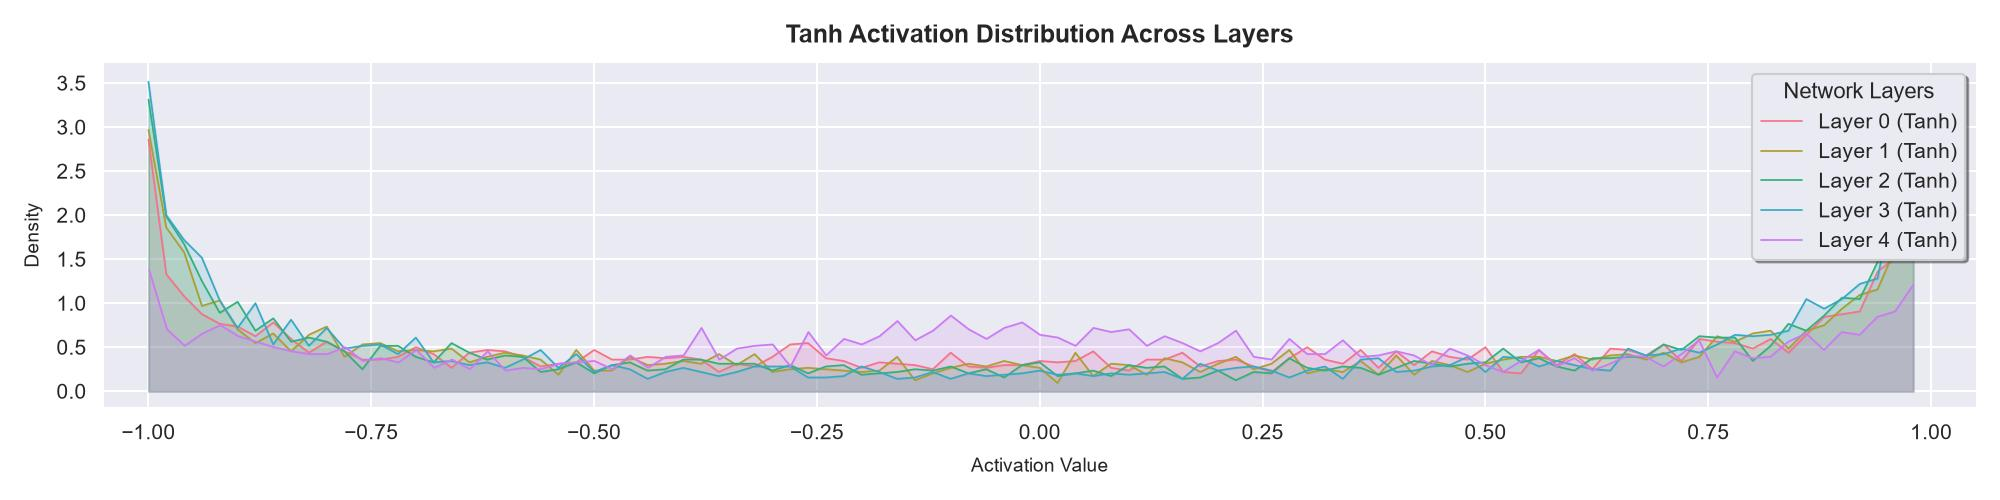
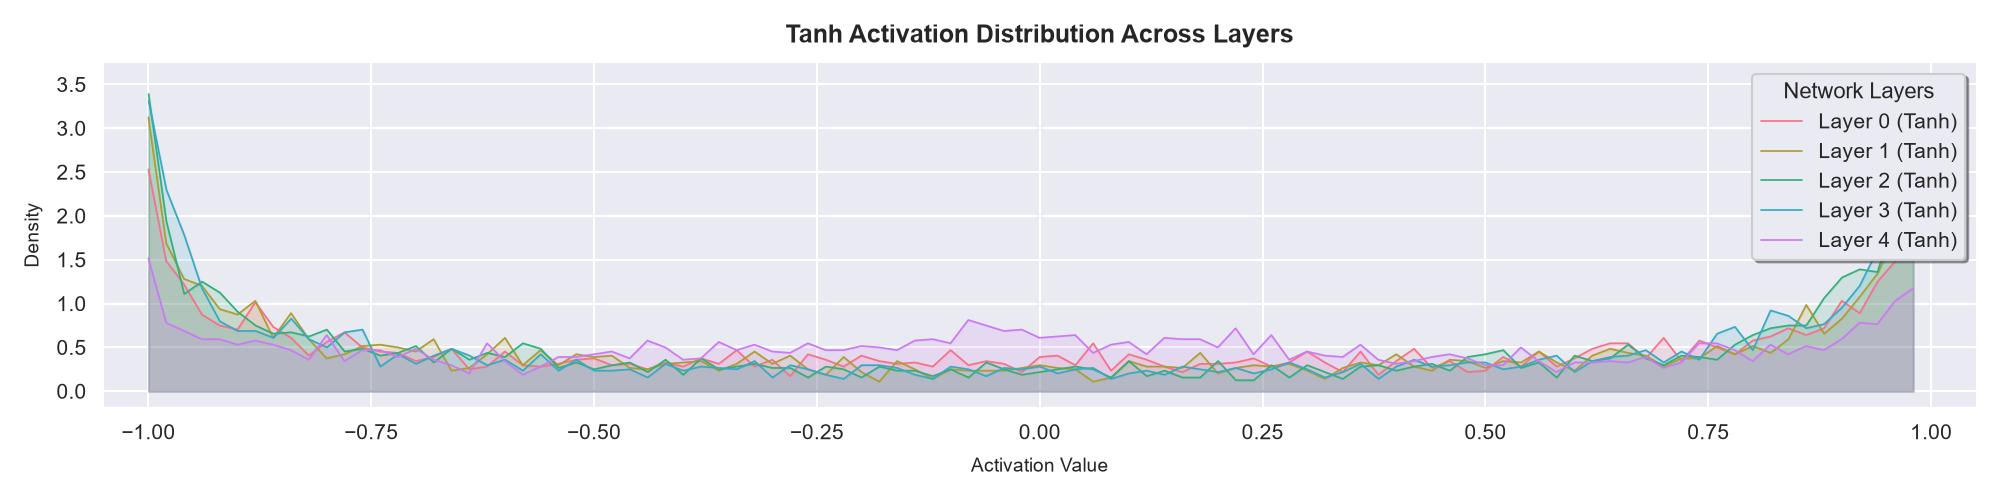
Implement WaveNet character language mode

Changed region(s): [[0.031, 0.24, 0.961, 0.78], [0.031, 0.15, 0.062, 0.18]]

diff --git a/Wavenet.py b/Wavenet.py
@@ -1,0 +1,151 @@
+import random
+
+from Bigrams.utils.get_dataset  import get_dataset
+from Bigrams.utils.make_dataset import build_dataset
+from nn.batch_norm_1d           import BatchNorm1d
+from nn.Linear                  import Linear
+from nn.TanH                    import Tanh
+from nn.embedding               import Embedding
+from nn.sequential              import Sequential
+from nn.flatten_consecutive     import FlattenConsecutive
+
+import torch
+import matplotlib.pyplot   as plt
+import seaborn             as sns
+import torch.nn.functional as F
+
+torch.manual_seed(42)
+random.seed(42)
+
+print(">> Reading dataset.")
+names = get_dataset()
+print(">> Dataset read successfully.")
+
+print(">> Generating vocabulary.")
+vocabulary = ['.'] +  list(sorted(set(list(''.join(names)))))
+print(f">> Vocabulary generated. Unique characters available in dataset is: {len(vocabulary)}.")
+
+_CONTEXT_WINDOW      = 8
+_VOCABULARY_SIZE     = len(vocabulary)
+_EMBEDDING_DIMENSION = 24
+_HIDDEN_NEURONS      = 128
+_MINI_BATCH_SIZE     = 32
+_ITERATIONS          = 200000
+
+char_lookup_table: dict[str, int] = {}
+rev_lookup_table : dict[int, str] = {}
+
+print(">> Generating lookup tables.")
+for i, ch in enumerate(vocabulary):
+    char_lookup_table[ch] = i
+    rev_lookup_table[i]   = ch
+print(">> Lookup tables generated.")
+
+random.shuffle(names)
+n1: int = int(0.8 * len(names))
+n2: int = int(0.9 * len(names))
+
+X_train, Y_train = build_dataset(names[  :n1], _CONTEXT_WINDOW, char_lookup_table)
+X_val  , Y_val   = build_dataset(names[n1:n2], _CONTEXT_WINDOW, char_lookup_table)
+X_test , Y_test  = build_dataset(names[n2:  ], _CONTEXT_WINDOW, char_lookup_table)
+
+
+model = Sequential([
+    Embedding(_VOCABULARY_SIZE , _EMBEDDING_DIMENSION),
+    FlattenConsecutive(2), Linear(_EMBEDDING_DIMENSION * 2, _HIDDEN_NEURONS, bias=False), BatchNorm1d(_HIDDEN_NEURONS), Tanh(),
+    FlattenConsecutive(2), Linear(_HIDDEN_NEURONS * 2     , _HIDDEN_NEURONS, bias=False), BatchNorm1d(_HIDDEN_NEURONS), Tanh(),
+    FlattenConsecutive(2), Linear(_HIDDEN_NEURONS * 2     , _HIDDEN_NEURONS, bias=False), BatchNorm1d(_HIDDEN_NEURONS), Tanh(),
+    Linear(_HIDDEN_NEURONS , _VOCABULARY_SIZE)
+])
+
+with torch.no_grad():
+  model._layers[-1]._weights *= 0.1
+
+parameters = model.parameters()
+
+print(f">> Model initialized with {sum(p.nelement() for p in parameters)} parameters.")
+for p in parameters:
+  p.requires_grad = True
+
+losses = []
+
+print(f">> Starting training...")
+for i in range(_ITERATIONS):
+    ix = torch.randint(0, X_train.shape[0], (_MINI_BATCH_SIZE, ))
+
+    X_batch, Y_batch = X_train[ix], Y_train[ix]
+    logits = model(X_batch)
+
+    loss = F.cross_entropy(logits, Y_batch)
+
+    for p in parameters:
+        p.grad = None
+
+    loss.backward()
+
+    lr = 0.1 if i < 100000 else 0.01
+
+    for p in parameters:
+        p.data += -lr * p.grad
+
+    if i % 10000 == 0:
+        print(f">>> Training loss after {i} iterations is {loss.item():.4f}")
+
+    losses.append(loss.item())
+print(f">> Training completed.")
+for layer in model._layers:
+    print(f"{layer.__class__.__name__} : {tuple(layer.out.shape)}")
+
+for layer in model._layers:
+    if isinstance(layer, BatchNorm1d):
+        layer.training = False
+
+@torch.no_grad()
+def split_loss(split):
+  x,y = {
+    'train': (X_train, Y_train),
+    'val'  : (X_val, Y_val),
+    'test' : (X_test, Y_test),
+  }[split]
+  logits = model(x)
+  loss   = F.cross_entropy(logits, y)
+  print(f"{split} set loss is: {loss.item():.7f}")
+
+split_loss('train')
+split_loss('val')
+split_loss('test')
+
+plt.figure(figsize=(18, 5))
+
+with torch.no_grad():
+    loss_tensor = torch.tensor(losses).view(-1, 1000).mean(dim=1)
+    y_vals      = loss_tensor.detach().cpu().numpy()
+    x_vals      = range(len(y_vals))
+
+    color = "#B2BD7E"
+    sns.lineplot(x=x_vals, y=y_vals, linewidth=3, color=color, label="Training Loss (Rolling Mean)")
+    plt.fill_between(x_vals, y_vals, alpha=0.12, color=color)
+    plt.title('Model Convergence: Training Loss Progress', fontsize=18, fontweight='bold', pad=15)
+    plt.xlabel('Training Epoch / Iteration Chunk (x1000 Steps)', fontsize=13, labelpad=10)
+    plt.ylabel('Mean Loss', fontsize=13, labelpad=10)
+    plt.ylim(y_vals.min() * 0.9, y_vals.max() * 1.05)
+    plt.xlim(0, len(y_vals) - 1)
+    plt.legend(frameon=True, shadow=True, loc='upper right', fontsize=11)
+    sns.despine(left=True, bottom=True)
+    plt.tight_layout()
+    plt.savefig("model_convergence.jpeg")
+
+for _ in range(20):
+
+    out = []
+    context = [0] * _CONTEXT_WINDOW
+    while True:
+        logits  = model(torch.tensor([context]))
+        probs   = F.softmax(logits, dim=1)
+        ix      = torch.multinomial(probs, num_samples=1).item()
+        context = context[1:] + [ix]
+        out.append(ix)
+        if ix == 0:
+            break
+
+    print(''.join(rev_lookup_table[i] for i in out))

diff --git a/nn/batch_norm_1d.py b/nn/batch_norm_1d.py
@@ -13,8 +13,12 @@ class BatchNorm1d:
 
     def __call__(self, x):
         if self.training:
-            xmean = x.mean(0, keepdim=True)
-            xvar  = x.var(0, keepdim=True)
+            if x.ndim == 2:
+                dim = 0
+            elif x.ndim == 3:
+                dim = (0, 1)
+            xmean = x.mean(dim, keepdim=True)
+            xvar  = x.var(dim, keepdim=True)
         else:
             xmean = self._running_mean
             xvar  = self._running_var

diff --git a/nn/flatten_consecutive.py b/nn/flatten_consecutive.py
@@ -1,0 +1,17 @@
+import torch
+
+class FlattenConsecutive:
+    def __init__(self, n):
+        self.n = n
+
+    def __call__(self, x):
+        B, T, C = x.shape
+        x       = x.view(B, T // self.n, C * self.n)
+        if x.shape[1] == 1:
+            x = x.squeeze(1)
+        self.out = x
+
+        return self.out
+
+    def parameters(self):
+        return []

diff --git a/nn/sequential.py b/nn/sequential.py
@@ -1,0 +1,14 @@
+import torch
+
+class Sequential:
+    def __init__(self, layers):
+        self._layers = layers
+
+    def __call__(self, x):
+        for layer in self._layers:
+            x = layer(x)
+        self.out = x
+        return self.out
+
+    def parameters(self):
+        return [p for layer in self._layers for p in layer.parameters()]

diff --git a/nn/embedding.py b/nn/embedding.py
@@ -1,0 +1,12 @@
+import torch
+
+class Embedding:
+    def __init__(self, num_embeddings, embedding_dimensions):
+        self._weights = torch.randn((num_embeddings, embedding_dimensions))
+
+    def __call__(self, ix):
+        self.out = self._weights[ix]
+        return self.out
+
+    def parameters(self):
+        return [self._weights]

diff --git a/nn/flatten.py b/nn/flatten.py
@@ -1,0 +1,9 @@
+import torch
+
+class Flatten:
+    def __call__(self, x):
+        self.out = x.view(x.shape[0], -1)
+        return self.out
+
+    def parameters(self):
+        return []
